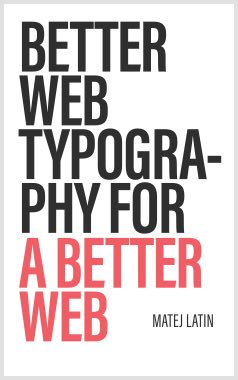
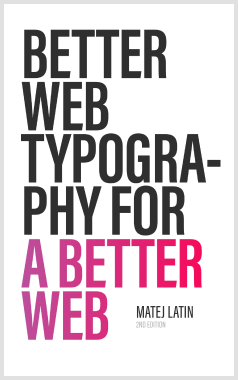
Updated book

Changed region(s): [[0.0588, 0.0579, 0.9412, 0.8974]]

diff --git a/_site/articles/2019/02/01/open-plan-offices-are-the-sweatshops-of-the-west/index.html b/_site/articles/2019/02/01/open-plan-offices-are-the-sweatshops-of-the-west/index.html
@@ -169,14 +169,14 @@ After working for a medium-sized startup in London I went on to work for an ente
 </p>
 
 <h2 id="open-plan-offices-done-wrong">Open-plan offices done wrong</h2>
-<p>Corporations like these try to emulate the startup working environment by creating such open offices where they throw 100 people in, and tell them to collaborate. They expect cross-pollination of ideas like we’re fucking bees or something. It’s not that simple. It kinda works for startups because the teams are usually really small. We’re talking about 5 to 7 people. Collaborating in an open-plan office is great when everyone is working on the same thing, when you’re all on the same mission, when you hang out with them during lunch time, go home together… But when you share your space with people who work on different things (sometimes even in different departments) that constantly distract you with their noisiness <em>and</em> nosiness it’s a completely different story.</p>
+<p>Corporations like these try to emulate the startup working environment by creating such open offices where they throw 100 people in and tell them to collaborate. They expect cross-pollination of ideas like we’re fucking bees or something. It’s not that simple. It kinda works for startups because the teams are usually really small. We’re talking about 5 to 7 people. Collaborating in an open-plan office is great when everyone is working on the same thing, when you’re all on the same mission, when you hang out with them during lunch time, go home together… But when you share your space with people who work on different things (sometimes even in different departments) that constantly distract you with their noisiness <em>and</em> nosiness it’s a completely different story.</p>
 
 <figure class="full-bleed-image">
   <img src="/assets/images/open-office.jpg" alt="A typical open-plan office. Endless rows of desks, people slouching over laptops with zero privacy and maximum distractions." />
   <figcaption>A typical open-plan office. Endless rows of desks, people slouching over laptops with zero privacy and maximum distractions. (<a href="https://unsplash.com/photos/QBpZGqEMsKg">Source</a>)</figcaption>
 </figure>
 
-<p>That’s what large companies that try to emulate startups get wrong the most. And the worst thing about it, is that they <em>don’t even realise that they’re not getting it</em>. The just brag about their “<em>cool office</em>” and how “<em>we’re all about collaboration</em>” and “<em>flat hierarchy</em>”. They think that a cool office will create a great culture. That cleaning up your own desk everyday will force you to sit with Jeff from the sales department and get friendly with him to eventually share ideas and interests. Well, let me tell you something: Jeff is fucking annoying and I, as an introverted designer, have absolutely nothing in common with him. He’s nothing but a huge distraction to me. I can still hear him yap around on his call even through my headphones playing the loudest Death Metal music I can find.</p>
+<p>That’s what large companies that try to emulate startups get wrong the most. And the worst thing about it is that they <em>don’t even realise that they’re not getting it</em>. They just brag about their “<em>cool office</em>” and how “<em>we’re all about collaboration</em>” and “<em>flat hierarchy</em>”. They think that a cool office will create a great culture. That cleaning up your own desk everyday will force you to sit with Jeff from the sales department and get friendly with him to eventually share ideas and interests. Well, let me tell you something: Jeff is fucking annoying and I, as an introverted designer, have absolutely nothing in common with him. He’s nothing but a huge distraction to me. I can still hear him yap around on his call even through my headphones playing the loudest Death Metal music I can find.</p>
 
 <h3 id="collaboration-kills-creativity">Collaboration kills creativity</h3>
 <p>There was an interesting study called <em>Coding War Games</em> conducted by Tom Demarco which compared 600 computer programmers at 92 companies. Long story short, they found:<sup id="fnref:1"><a href="#fn:1" class="footnote">1</a></sup></p>
@@ -196,7 +196,7 @@ After working for a medium-sized startup in London I went on to work for an ente
   <p>We encourage people to stay out in the open because we believe in serendipity—and people walking by each other teaching new things.”</p>
 </blockquote>
 
-<p>Even the small offices that are reserved for meetings and calls in these kinds of environments are usually surrounded with transparent walls. So even when you’re trying to isolate yourself a bit, everyone can still see you. I guess it’s all in the name of transparency. Collaboration, transparency, efficiency and friendship at work all sounds nice, but is there any research backing this?</p>
+<p>Even the small offices that are reserved for meetings and calls in these kinds of environments are usually surrounded by transparent walls. So even when you’re trying to isolate yourself a bit, everyone can still see you. I guess it’s all in the name of transparency. Collaboration, transparency, efficiency and friendship at work all sounds nice, but is there any research backing this?</p>
 
 <p>There’s research alright, but it’s not backing the claims of the open-plan office advocates. In fact, it proves the opposite. Researches at Harvard found that after switching to an open-plan office:<sup id="fnref:2"><a href="#fn:2" class="footnote">2</a></sup></p>
 
@@ -222,7 +222,7 @@ After working for a medium-sized startup in London I went on to work for an ente
   <p>While employees feel like they’re part of a laid-back, innovative enterprise, the environment ultimately damages workers’ attention spans, productivity, creative thinking, and satisfaction.  Furthermore, a sense of privacy boosts job performance, while the opposite can cause feelings of helplessness.</p>
 </blockquote>
 
-<p>Ok, so if research proves that open-plan offices don’t work, why are 80% of office working environments already open-plan? The amount of space per employee shrank from 50 m<sup>2</sup> in the 1970 to less than 20 m<sup>2</sup> in 2010<sup id="fnref:4"><a href="#fn:4" class="footnote">4</a></sup>. Switching to an open-plan office is a global trend. Why do companies increasingly keep switching to it if it doesn’t actually work?</p>
+<p>Ok, so if research proves that open-plan offices don’t work, why are 80% of office working environments already open-plan? The amount of space per employee shrank from 50 m<sup>2</sup> in 1970 to less than 20 m<sup>2</sup> in 2010<sup id="fnref:4"><a href="#fn:4" class="footnote">4</a></sup>. Switching to an open-plan office is a global trend. Why do companies increasingly keep switching to it if it doesn’t actually work?</p>
 
 <h2 id="the-new-sweatshops-of-the-west">The new sweatshops of the west</h2>
 <p>We look with horror at the typical sweatshops in Asia that, whether we like it or not, produce most of the products we buy. Rooms, crowded with people (and sometimes children) with no private space, trying to focus in such distracting and sometimes hazardous environment. Trying their best to produce the amount of work that will guarantee them their daily wage. Bad lighting, poor quality of air, limited toilet time, limited breaks. In short, extremely poor and unacceptable working conditions.</p>

diff --git a/_site/personal-notes/2016/08/18/i-quit-design-twice/index.html b/_site/personal-notes/2016/08/18/i-quit-design-twice/index.html
@@ -162,7 +162,9 @@
   <p>I still look back on those years as one of the best years of my life. Video games, music and candy—bliss.</p>
 </aside>
 
-<p>Primary school was a piece of cake, but high school was a wake up call. I spent most of my time playing video games, neglecting school assignments. I’d come home, turn on the PC and start playing Half-Life, Command &amp; Conquer, Civilization. All those games were so time consuming. There was no time for anything else. My grades in school started to reflect this and I failed a class. The next year I dropped out.</p>
+<p class="force-indent">
+Primary school was a piece of cake, but high school was a wake up call. I spent most of my time playing video games, neglecting school assignments. I’d come home, turn on the PC and start playing Half-Life, Command &amp; Conquer, Civilization. All those games were so time consuming. There was no time for anything else. My grades in school started to reflect this and I failed a class. The next year I dropped out.
+</p>
 
 <p>But there was something else I used my PC for. I was designing websites and setting up eCommerce sites for local clients. I picked up this interest as a child but I had never thought it’d ever be anything more than a hobby. I was setting up WordPress blogs, Zen Cart web sites and drawing interfaces and websites in Photoshop by the time I finally finished high school.</p>
 

diff --git a/_site/books/2017/07/31/better-web-typography-for-a-better-web/index.html b/_site/books/2017/07/31/better-web-typography-for-a-better-web/index.html
@@ -170,6 +170,10 @@
 
 <p>The book was released as an eBook on July 31 and is available to <a href="https://betterwebtype.com/web-typography-book">order on the Better Web Type website</a>.</p>
 
+<div></div>
+
+<p>The <em>second edition</em> of the book was released in February 2019. Digital extras like Sketch files, cheat sheets and similar were added to the book.</p>
+
   </div>
 
   <!--  -->

diff --git a/_posts/2017-06-07-better-web-typography-for-a-better-web.md b/_posts/2017-06-07-better-web-typography-for-a-better-web.md
@@ -21,3 +21,7 @@ The students that went through the course loved it so much that they started ask
 ---
 
 The book was released as an eBook on July 31 and is available to [order on the Better Web Type website](https://betterwebtype.com/web-typography-book).
+
+<div></div>
+
+The *second edition* of the book was released in February 2019. Digital extras like Sketch files, cheat sheets and similar were added to the book.
